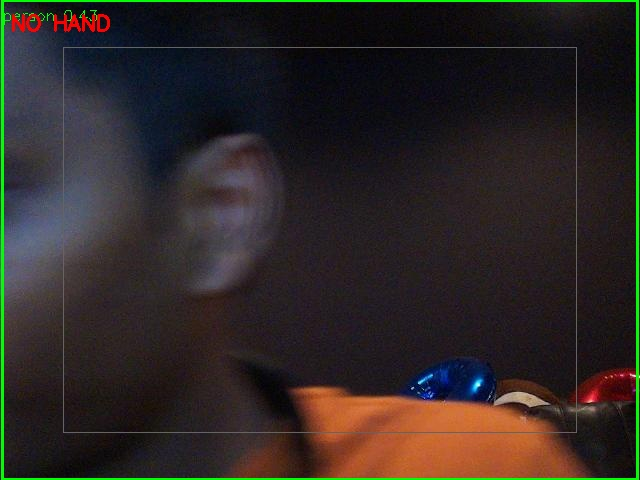
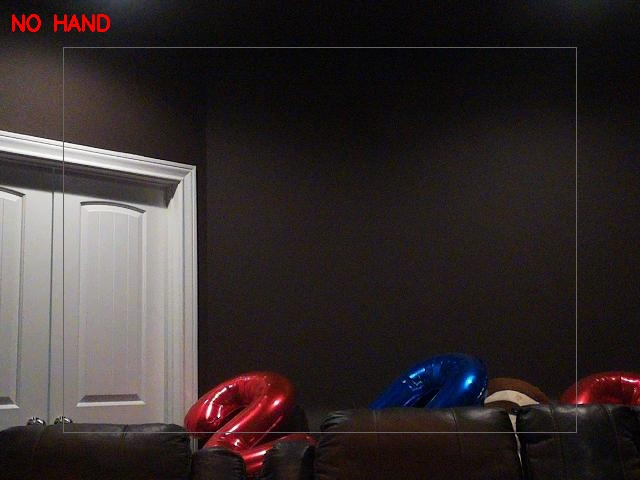
LEDs + Sound Calibration

diff --git a/camera_assistant.py b/camera_assistant.py
@@ -5,12 +5,16 @@ import onnxruntime as ort
 from collections import deque
 from datetime import datetime
 from enum import Enum
+from http.server import HTTPServer, BaseHTTPRequestHandler
+import json
+import threading
 
 CAMERA_URL     = "http://localhost:8081"
 PERSON_MODEL   = "models/yolov8n.onnx"
 HAND_MODEL     = "models/hand_yolov8n.onnx"
 LANDMARK_MODEL = "models/handpose_estimation.onnx"
 IR_SERVER_URL  = "http://localhost:5000"
+VOICE_ASSISTANT_URL = "http://localhost:8083"
 
 INTERVAL       = 0.5
 CONF_THRESH    = 0.4
@@ -74,6 +78,62 @@ gesture_hold_start_time = None
 last_gesture_held       = None
 gesture_triggered       = False
 cooldown_until          = 0.0
+
+# ── LED control ────────────────────────────────────────────────────────────────
+try:
+    import pigpio
+    pi = pigpio.pi()
+    if not pi.connected:
+        pi = None
+except Exception:
+    pi = None
+
+GREEN_LED_PIN = 23
+
+def led_on():
+    """Turn the green LED on (solid)."""
+    if pi:
+        pi.write(GREEN_LED_PIN, 1)
+
+def led_off():
+    """Turn the green LED off."""
+    if pi:
+        pi.write(GREEN_LED_PIN, 0)
+
+# ── State Publishing ───────────────────────────────────────────────────────────
+
+camera_state = {"person_present": False}
+camera_state_lock = threading.Lock()
+
+class StateHandler(BaseHTTPRequestHandler):
+    def do_GET(self):
+        if self.path == "/state":
+            self.send_response(200)
+            self.send_header("Content-Type", "application/json")
+            self.end_headers()
+            with camera_state_lock:
+                self.wfile.write(json.dumps(camera_state).encode())
+        else:
+            self.send_response(404)
+            self.end_headers()
+    
+    def log_message(self, format, *args):
+        pass
+
+def start_state_server():
+    server = HTTPServer(("localhost", 8084), StateHandler)
+    t = threading.Thread(target=server.serve_forever, daemon=True)
+    t.start()
+
+def get_voice_state():
+    """Fetch state from voice_assistant"""
+    try:
+        r = requests.get(f"{VOICE_ASSISTANT_URL}/state", timeout=1)
+        if r.status_code == 200:
+            return r.json().get("state", "idle")
+    except Exception:
+        pass
+    return "idle"
 
 # ── Logging ────────────────────────────────────────────────────────────────────
 
@@ -448,6 +508,8 @@ else:
 
 print()
 
+start_state_server()
+
 # ── Main Loop ──────────────────────────────────────────────────────────────────
 
 while True:
@@ -469,6 +531,7 @@ while True:
         gesture_stable = False
         time_held = 0.0
         in_center = False
+        person_present = False
     else:
         hand_box, hand_conf = detect_best_hand(frame)
         in_center = is_hand_in_center(frame, hand_box)
@@ -499,6 +562,18 @@ while True:
         
         # Rules 4, 6, 7: Update gesture hold tracking
         gesture_stable, time_held, should_trigger = update_gesture_hold(gesture)
+        person_present = True
+
+    # Update camera state
+    with camera_state_lock:
+        camera_state["person_present"] = person_present
+
+    # Check voice state and update LED
+    voice_state = get_voice_state()
+    if person_present and voice_state != "active":
+        led_on()
+    else:
+        led_off()
 
     state = f"{gesture}/{person_count}p" if hand_present else f"PERSON/{person_count}p" if person_count > 0 else "EMPTY"
 

diff --git a/readme.md b/readme.md
@@ -149,3 +149,156 @@ MayankKonduri/MAVEN
 * Always test changes locally by restarting the appropriate service before committing and pushing to GitHub.
 
 * Keep `MAVEN_BACKUP` as a temporary safety copy until the new system has been fully validated.
+
+
+---
+
+# USB Microphone Troubleshooting & Calibration
+
+If the USB microphone is unplugged and plugged back in, it may reset its audio settings. Common issues include:
+
+* Auto Gain Control (AGC) turning back on
+* Microphone gain returning to 100%
+* MAVEN input levels becoming too sensitive
+
+### Symptoms
+
+* Idle noise is high (10–50%)
+* MAVEN does not reliably detect wake words
+* The input level meter constantly jumps without speaking
+
+---
+
+## 1. Verify the Correct USB Microphone
+
+Before making any adjustments, make sure MAVEN is using the USB microphone and not the Raspberry Pi's built-in audio device.
+
+Check available recording devices:
+
+```bash
+arecord -l
+```
+
+You should see something similar to:
+
+```text
+**** List of CAPTURE Hardware Devices ****
+card 1: Device [USB PnP Sound Device], device 0: USB Audio [USB Audio]
+```
+
+Open the USB microphone mixer directly:
+
+```bash
+alsamixer -c 1
+```
+
+Verify the top-left corner shows:
+
+```text
+Card: USB PnP Sound Device
+Chip: USB Mixer
+```
+
+**Do not adjust:**
+
+```text
+Card: bcm2835 Headphones
+Chip: Broadcom Mixer
+```
+
+because that is the Raspberry Pi audio output, not the MAVEN USB microphone.
+
+---
+
+## 2. Adjust USB Microphone Gain
+
+Inside `alsamixer`:
+
+1. Switch to **Capture** view (`F4`)
+2. Navigate to the **Mic** control
+3. Disable **Auto Gain Control (AGC)**
+4. Lower the microphone gain
+
+Recommended settings:
+
+* Auto Gain Control: **OFF**
+* Mic Gain: ~40–60%
+* Avoid 100% / +23.81 dB gain
+
+A good microphone level target:
+
+| Condition                       | Desired Input Level |
+| ------------------------------- | ------------------- |
+| Silent room                     | 0–5%                |
+| Background noise                | 5–10%               |
+| Normal speech                   | 20–50%              |
+| Loud speech close to microphone | 60–100%             |
+
+---
+
+## 3. Save ALSA Microphone Settings
+
+After adjusting the microphone:
+
+Exit `alsamixer` and run:
+
+```bash
+sudo alsactl store
+```
+
+This saves the USB microphone settings so they persist after reboot.
+
+---
+
+## 4. Restart MAVEN Audio Services
+
+The microphone server and voice assistant need to reload the updated audio configuration:
+
+```bash
+sudo systemctl restart maven-mic.service
+sudo systemctl restart maven-voice.service
+```
+
+
+---
+
+
+## 5. Verify MAVEN Input Levels
+
+Open the MAVEN microphone input level page and confirm:
+
+* Quiet room: around 0–5%
+* Normal ambient noise: 5–10%
+* Saying "MAVEN": around 20–50%
+* Loud speech close to the mic: 60–100%
+
+If the idle level is still too high, return to:
+
+```bash
+alsamixer -c 1
+```
+
+and further reduce the microphone gain.
+
+---
+
+## Quick Recovery After Unplugging the USB Mic
+
+If MAVEN stops recognizing your voice after unplugging/replugging the microphone:
+
+```bash
+# Verify USB microphone is detected
+arecord -l
+
+# Open USB microphone controls
+alsamixer -c 1
+
+# Save audio settings
+sudo alsactl store
+
+# Reload MAVEN microphone and voice services
+sudo systemctl restart maven-mic.service
+sudo systemctl restart maven-voice.service
+```
+
+This process restores the USB microphone configuration and reloads MAVEN with the updated audio settings.
